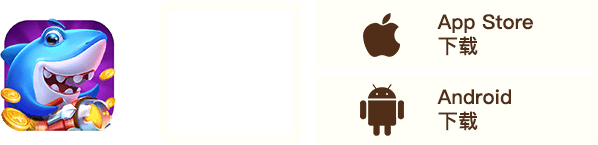
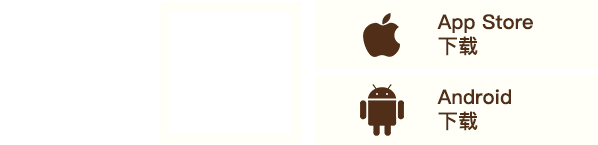
修改了一些信息

Changed region(s): [[0.0, 0.1103, 0.2107, 0.9103]]

diff --git a/src/components/home.vue b/src/components/home.vue
@@ -46,7 +46,7 @@
           </b-card>
         </div>
         <div class="right">
-          <v-bar title="捕鱼攻略" extend="更多 +" @vBarExtendFn="showStrategy"></v-bar>
+          <v-bar title="新闻公告" extend="更多 +" @vBarExtendFn="showStrategy"></v-bar>
           <div class="newsinfo clearfix">
             <ul class="newslist">
               <li class="news-item" v-for="(item, index) in newsList" :key="index" v-if="index < 5">
@@ -57,32 +57,26 @@
             <div class="js-Swiper">
               <div class="swiper-wrapper">
                 <div class="swiper-slide">
-                  <img src="../assets/image/NP1-3.jpg">
+                  <img src="../assets/image/NP1-1.jpg">
                 </div>
-                  <div class="swiper-slide">
-                    <img src="../assets/image/NP1-2.jpg">
                 </div>
-                    <div class="swiper-slide">
-                      <img src="../assets/image/NP1-1.jpg">
-                </div>
-                    </div>
-                    <div class="swiper-pagination" style="cursor: default"></div>
-                  </div>
-                </div>
+                <div class="swiper-pagination" style="cursor: default"></div>
               </div>
             </div>
-            <div class="section section_2">
-              <v-bar title="捕鱼截图"></v-bar>
-              <div class="screen-shot-wrapper">
-                <img v-for="(item, index) in imgList" :key="index" :src="item.src" v-show="index < currentPage * 2 && index >= (currentPage - 1) * 2">
-        </div>
-                <div class="pagination-wrapper">
-                  <b-pagination :total-rows="imgList.length" v-model="currentPage" :per-page="2" hide-goto-end-buttons prev-text="上一页" next-text="下一页"></b-pagination>
-                </div>
-              </div>
-            </div>
-            <b-modal v-model="isShowModal" title="温馨提示" ok-only>暂时无法登录</b-modal>
           </div>
+        </div>
+        <div class="section section_2">
+          <v-bar title="游戏截图"></v-bar>
+          <div class="screen-shot-wrapper">
+            <img v-for="(item, index) in imgList" :key="index" :src="item.src" v-show="index < currentPage * 2 && index >= (currentPage - 1) * 2">
+        </div>
+            <div class="pagination-wrapper">
+              <b-pagination :total-rows="imgList.length" v-model="currentPage" :per-page="2" hide-goto-end-buttons prev-text="上一页" next-text="下一页"></b-pagination>
+            </div>
+          </div>
+        </div>
+        <b-modal v-model="isShowModal" title="温馨提示" ok-only>暂时无法登录</b-modal>
+      </div>
 </template>
 <script>
 import Vue from 'vue'
@@ -100,9 +94,9 @@ export default {
       currentPage: 1,
       swiper: null,
       imgList: [{
-        src: require('../assets/image/PIC4-5.png')
+        src: require('../assets/image/PIC4-1.png')
       }, {
-        src: require('../assets/image/PIC4-6.png')
+        src: require('../assets/image/PIC4-2.png')
       }],
       newsList: STATIC.strategyDisTplList,
       userName: '',
@@ -121,13 +115,7 @@ export default {
     }
   },
   mounted() {
-    this.swiper = new Swiper('.js-Swiper', {
-      loop: true,
-      pagination: '.swiper-pagination',
-      autoplay: 5000,
-      paginationClickable: true,
-      autoplayDisableOnInteraction: false
-    })
+    this.swiper = new Swiper('.js-Swiper')
   }
 }
 

diff --git a/src/components/common/vFooter.vue b/src/components/common/vFooter.vue
@@ -10,10 +10,38 @@
         <li><router-link :to="{name: 'About', query: {id: '_5'}}">网络游戏服务格式化协议必备条款</router-link></li>
       </ul>
     </div>
-    <p>北京麦麦畅游科技有限公司 联系电话：19928433571 联系地址：北京市朝阳区北苑路170号3号楼7层1单元801-77</p>
-    <p>文化部网络游戏举报和联系电子邮箱：<a href="mailto:wlwh@vip.sina.com">wlwh@vip.sina.com</a> 纠纷处理方式：联系客服或依《用户协议》约定方式处理</p>
-    <p class="youxidzbq"><a href="/static/image/wenwangwen1.jpg" target="_blank">京网文 [2015] 2363-454号</a>&nbsp;&nbsp;&nbsp;&nbsp;京ICP备16007680号&nbsp;&nbsp;&nbsp;&nbsp;文网游备字〔2017〕Ｍ-CBG 0181 号 <a href="http://sq.ccm.gov.cn/ccnt/sczr/service/business/emark/gameNetTag/4028c08c5a164052015a3a5bde116bf7" target="_blank"><img src="../../assets/image/youxidzbq.png" width="36" alt=""></a></p>
-    <div class="rz"><a class="rz1" href=""><img src="../../assets/image/rz.png"></a><a class="rz2" href=""><img src="../../assets/image/rz.png"></a><a class="rz3" href=""><img src="../../assets/image/rz.png"></a><a class="rz4" href=""><img src="../../assets/image/rz.png"></a></div>
+    <p>
+      <span>北京麦麦畅游科技有限公司&nbsp;&nbsp;</span>
+      <span>联系电话：0898-36690405&nbsp;&nbsp;</span>
+      <span>联系地址：北京市朝阳区北苑路170号3号楼7层1单元801-77</span>
+    </p>
+    <p>
+      <span>文化部网络游戏举报和联系电子邮箱：</span>
+      <a href="mailto:wlwh@vip.sina.com">wlwh@vip.sina.com&nbsp;&nbsp;</a>
+      <span>纠纷处理方式：联系客服或依《用户协议》约定方式处理</span>
+    </p>
+    <p class="youxidzbq">
+      <a href="/static/image/wenwangwen1.jpg" target="_blank">京网文 [2015] 2363-454号&nbsp;&nbsp;</a>
+      <a href="http://www.miitbeian.gov.cn" target="_blank">京ICP备16007680号&nbsp;&nbsp;</a>
+      <span>文网游备字〔2017〕Ｍ-CSG 2408 号</span>
+      <a href="http://sq.ccm.gov.cn:80/ccnt/sczr/service/business/emark/gameNetTag/4028c08c5eb84138015eb8a7bd0d070a" target="_blank">
+        <img src="../../assets/image/youxidzbq.png" width="36" alt="">
+      </a>
+    </p>
+    <div class="rz">
+      <a class="rz1" href="">
+        <img src="../../assets/image/rz.png">
+      </a>
+      <a class="rz2" href="">
+        <img src="../../assets/image/rz.png">
+      </a>
+      <a class="rz3" href="">
+        <img src="../../assets/image/rz.png">
+      </a>
+      <a class="rz4" href="">
+        <img src="../../assets/image/rz.png">
+      </a>
+    </div>
   </div>
 </template>
 <script>

diff --git a/src/assets/js/static.js b/src/assets/js/static.js
@@ -28,7 +28,7 @@ module.exports = {
   download: {
     byss: {
       ios: '',
-      android: 'http://dmsdk.wcsdk.poker3a.com/android/download/54/10595'
+      android: 'https://dmsdk.wcsdk.poker3a.com/android/download/71/10072'
     }
   },
   // 游戏介绍文章
@@ -42,34 +42,20 @@ module.exports = {
   // 游戏介绍展示文章
   introductionDisTplList: [{
     id: '_1', // 这个id很重要对应的是STATIC.tplData中的tpl
-    title: '捕鱼圣手游戏介绍',
-    logo: require('../image/logo_01.png')
-  }, {
-    id: '_2',
-    title: '新手船长扬帆起航之道具介绍',
-    logo: require('../image/logo_01.png')
+    title: '贪吃蛇多重福利全面开启',
+    logo: require('../image/icon_byss.png')
   }],
-  // 游戏攻略展示文章
+  // 新闻公告展示文章
   strategyDisTplList: [{
-    id: '_3',
-    title: '捕鱼圣手船长进阶版本-海底世界的霸主',
-    date: '2018-09-24',
-    logo: require('../image/logo_01.png')
+    id: '_1',
+    title: '《贪吃蛇》安卓精英测试限时开启',
+    date: '2019-01-12',
+    logo: require('../image/icon_byss.png')
   }, {
     id: '_2',
-    title: '捕鱼圣手之中级船长的升级之路',
-    date: '2018-09-18',
-    logo: require('../image/logo_01.png')
-  }, {
-    id: '_1',
-    title: '捕鱼圣手之新手抓鱼小技巧',
-    date: '2018-09-03',
-    logo: require('../image/logo_01.png')
-  }, {
-    id: '_4',
-    title: '新手船长扬帆起航之道具介绍',
-    date: '2018-08-08',
-    logo: require('../image/logo_01.png')
+    title: '贪吃蛇多重福利全面开启',
+    date: '2019-01-10',
+    logo: require('../image/icon_byss.png')
   }],
   // 个人中心展示文章
   centerDisTplList: [{

diff --git a/src/components/common/vBanner.vue b/src/components/common/vBanner.vue
@@ -2,11 +2,12 @@
   <div class="v-banner">
     <div class="qrcode-wrapper">
       <img class="banner_01" src="../../assets/image/banner_01.png">
+      <img class="download_logo" src="../../assets/image/icon_byss.png">
       <div id="qrcode"></div>
       <div class="download-btn android-btn" @click="androidDownload"></div>
       <div class="download-btn ios-btn" @click="iosDownload"></div>
     </div>
-     <b-modal v-model="isShowModal" title="温馨提示" ok-only>敬请期待</b-modal>
+    <b-modal v-model="isShowModal" title="温馨提示" ok-only>敬请期待</b-modal>
   </div>
 </template>
 <script>
@@ -64,6 +65,13 @@ export default {
       height: 123px;
       top: 12px;
       left: 169px;
+    }
+
+    .download_logo {
+      position: absolute;
+      width: 128px;
+      left: 12px;
+      top: 9px;
     }
   }
 

diff --git a/src/App.vue b/src/App.vue
@@ -3,7 +3,6 @@
     <v-header></v-header>
     <div class="page-container">
       <router-view />
-      <v-qrcode></v-qrcode>
     </div>
     <v-footer></v-footer>
   </div>
@@ -12,10 +11,8 @@
 import Vue from 'vue'
 import vHeader from '@/components/common/vHeader'
 import vFooter from '@/components/common/vFooter'
-import vQrcode from '@/components/common/vQrcode'
 Vue.component('vHeader', vHeader)
 Vue.component('vFooter', vFooter)
-Vue.component('vQrcode', vQrcode)
 
 export default {
   name: 'App'

diff --git a/src/components/strategy.vue b/src/components/strategy.vue
@@ -5,7 +5,7 @@
       <div class="section section_1 clearfix">
         <div class="left fbs-left">
           <div class="article-list">
-            <v-bar title="攻略列表"></v-bar>
+            <v-bar title="公告列表"></v-bar>
             <div class="article-title-list">
               <v-article-title v-for="(item, index) in disTplList" :key="index" :infos="item" @toChoice="renderNewArticle"></v-article-title>
             </div>

diff --git a/src/components/common/vHeader.vue b/src/components/common/vHeader.vue
@@ -38,7 +38,7 @@ export default {
         text: '游戏介绍',
         route: 'Introduction'
       }, {
-        text: '游戏攻略',
+        text: '新闻公告',
         route: 'Strategy'
       }, {
         text: '用户中心',
